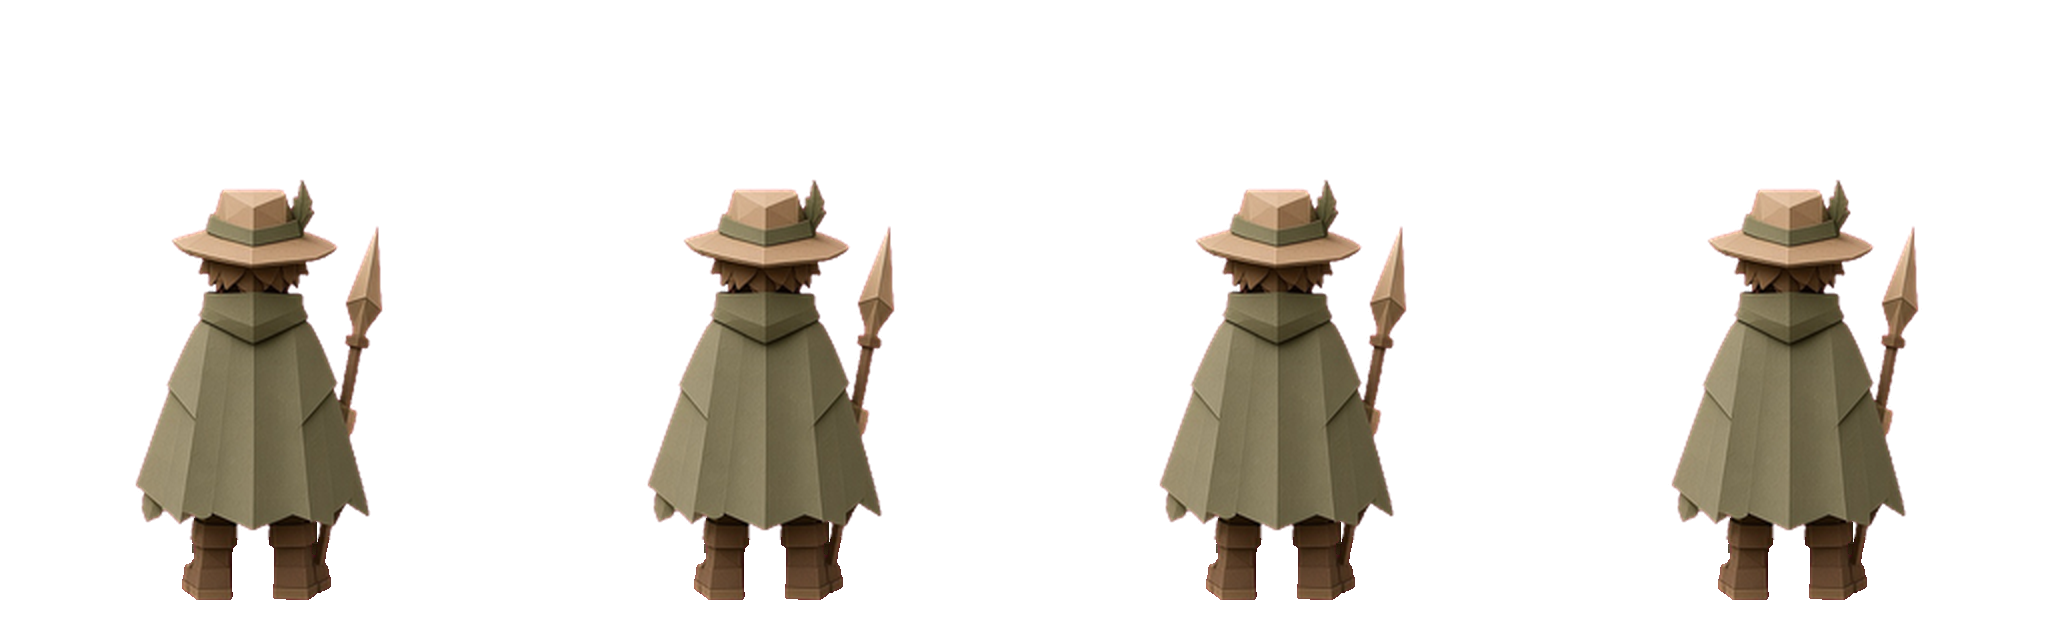
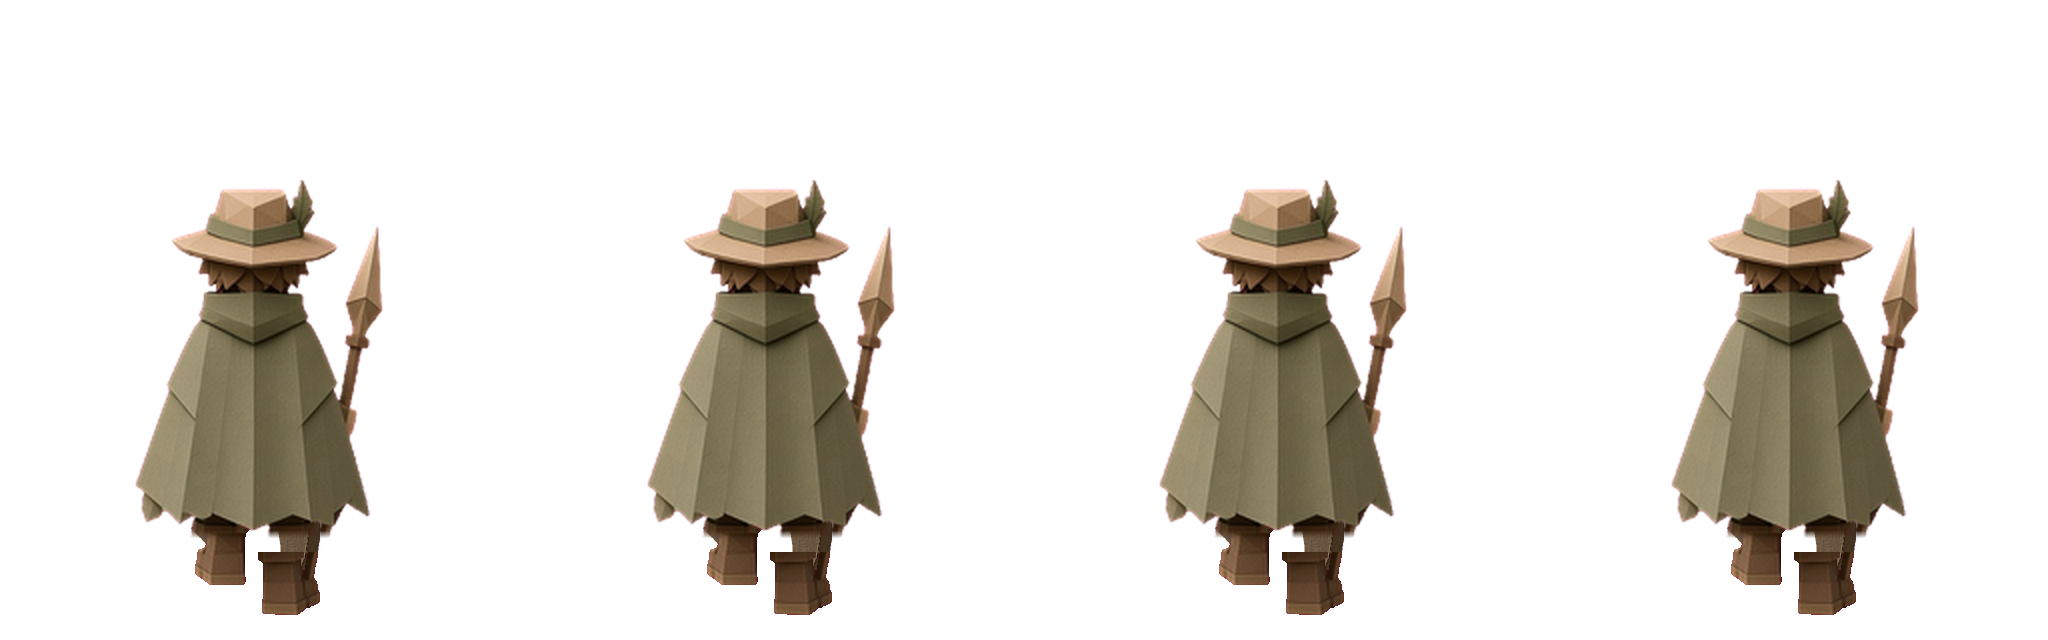
Swap in the V4 four-frame hunter sheets.
The v3-fix strips stay in walk-v3fix and idle-v3fix. Stopping still cuts to the idle. The distance cycle is unchanged, and the 12-frame set is not loaded.

diff --git a/src/walk/play.ts b/src/walk/play.ts
@@ -319,7 +319,7 @@ export class WalkMode {
     const missing = dirs.filter((dir) => !this.sheets[dir]);
     const note = document.getElementById("walk-limit");
     if (note && missing.length === 0) {
-      note.textContent = "v3-fix，不是终稿。四帧内仍会滑，南北落脚没有后移，换向矛的位置不一致，停步仍会收脚。";
+      note.textContent = "v4 四帧，不是终稿。东西没抵消纵向，南北腿交叉，帧内仍滑，换向矛左右不一致。";
     } else if (note && missing.length) {
       note.textContent = `行走帧缺失：${missing.join(" ")}。缺的方向不用单张冒充迈步。`;
     }
@@ -344,7 +344,8 @@ export class WalkMode {
     const standing = poseKind(this.walker.moving, !!this.idles[cardinal]) === "idle";
     const blocked = held.length > 0 && !this.walker.moving && !this.walker.won;
     const motion = this.walker.won ? "到旗立" : blocked ? "受阻立" : standing ? "立" : "走";
-    el.textContent = `${this.buildLabel()} · 输入 ${held.join("") || "无"} · 朝${cardinal} · ${motion}`;
+    const phase = this.walker.phase.toFixed(2);
+    el.textContent = `${this.buildLabel()} · 输入 ${held.join("") || "无"} · 朝${cardinal} · 相位${phase} · ${motion}`;
   }
 
   private buildLabel(): string {

diff --git a/src/walk/walk-sheets.ts b/src/walk/walk-sheets.ts
@@ -16,8 +16,8 @@ export const WALK_FRAMES = 4;
 /** Feet contact inside each frame. */
 export const WALK_ANCHOR_X = 256;
 export const WALK_ANCHOR_Y = 600;
-/** Targeted v3-fix sheets. The pivot and the distance cycle stay as they were. */
-export const WALK_BATCH = "v3-fix";
+/** V4 four-frame sheets. The pivot and the 1.53-unit cycle stay as they were. */
+export const WALK_BATCH = "v4";
 export const WALK_SHEET_W = WALK_FRAME_W * WALK_FRAMES;
 export const WALK_SHEET_H = WALK_FRAME_H;
 
